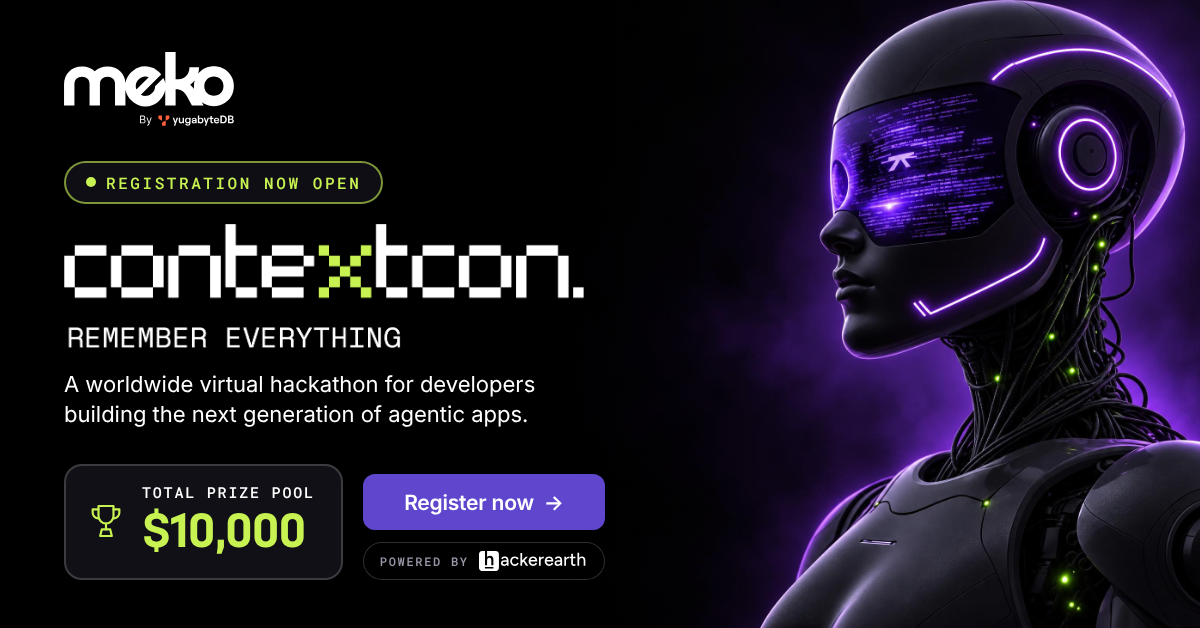
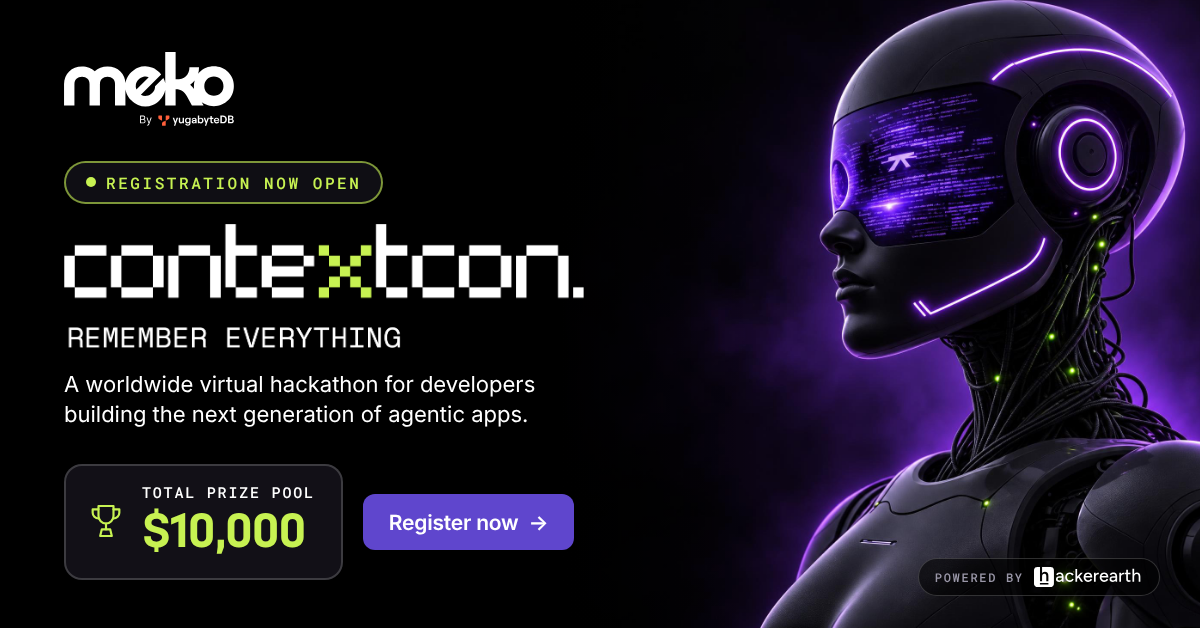
Facebook post: move Powered by HackerEarth to bottom right
Claude-Session: https://claude.ai/code/session_011WvSfbuXTc2R9BKwTF66Kj

Changed region(s): [[0.2775, 0.7564, 0.5242, 0.9076], [0.74, 0.8774, 0.9558, 0.9379]]

diff --git a/banners/contextcon-facebook-1200x628.html b/banners/contextcon-facebook-1200x628.html
@@ -31,14 +31,14 @@ body{min-height:100vh;display:grid;place-items:center;-webkit-font-smoothing:ant
 h1{margin:20px 0 0;width:520px}
 h1 img{display:block;width:100%;height:auto}
 .lede{margin:22px 0 0;max-width:540px;font-size:22px;line-height:1.35;color:var(--white);text-wrap:balance}
-.row{margin-top:auto;display:flex;align-items:flex-end;gap:20px}
+.row{margin-top:auto;display:flex;align-items:center;gap:20px}
 .prize{display:flex;align-items:center;gap:16px;background:var(--panel);border:2px solid var(--line-2);border-radius:18px;padding:16px 26px 18px 20px}
 .prize svg{flex:none;width:40px;height:40px;display:block}
 .prize .k{display:block;font-family:var(--mono);font-size:15px;font-weight:500;letter-spacing:.12em;text-transform:uppercase;color:var(--white)}
 .prize .v{display:block;margin-top:8px;font-family:'Bloka',var(--sans);font-size:50px;line-height:1;font-weight:700;letter-spacing:-.0225em;color:var(--lime);white-space:nowrap}
 .side{display:flex;flex-direction:column;align-items:stretch;gap:12px}
 .cta{display:flex;align-items:center;justify-content:center;gap:10px;height:56px;padding:0 26px;border-radius:12px;background:var(--purple-mid,#5f46cd);color:var(--white);font-size:21px;font-weight:600;letter-spacing:-.01em;text-decoration:none}
-.powered{margin:0;display:flex;align-items:center;gap:10px;background:rgba(0,0,0,.6);border:1px solid var(--line-2);border-radius:999px;padding:8px 18px 8px 16px}
+.powered{position:absolute;right:40px;bottom:32px;z-index:1;margin:0;display:flex;align-items:center;gap:10px;background:rgba(0,0,0,.6);border:1px solid var(--line-2);border-radius:999px;padding:8px 18px 8px 16px}
 .powered .k{font-family:var(--mono);font-size:12px;font-weight:500;letter-spacing:.14em;text-transform:uppercase;color:var(--muted)}
 .powered .v{display:block;height:20px;width:auto}
 </style>
@@ -55,10 +55,10 @@ h1 img{display:block;width:100%;height:auto}
       <div class="prize"><svg viewBox="0 0 48 48" aria-hidden="true" fill="none" stroke="#c7f252" stroke-width="2.6" stroke-linecap="round" stroke-linejoin="round"><path d="M15 6h18v12a9 9 0 0 1-18 0z"/><path d="M15 10H8v4a7 7 0 0 0 7 7"/><path d="M33 10h7v4a7 7 0 0 1-7 7"/><path d="M24 27v7"/><path d="M17 42h14l-2-8H19z"/></svg><div class="txt"><span class="k">Total prize pool</span><span class="v">$10,000</span></div></div>
       <div class="side">
         <a class="cta" href="#">Register now <span aria-hidden="true">→</span></a>
-        <p class="powered"><span class="k">Powered by</span><img class="v" src="assets/hackerearth-logo-light.svg" alt="HackerEarth"></p>
       </div>
     </div>
   </div>
+  <p class="powered"><span class="k">Powered by</span><img class="v" src="assets/hackerearth-logo-light.svg" alt="HackerEarth"></p>
 </main>
 </body>
 </html>
